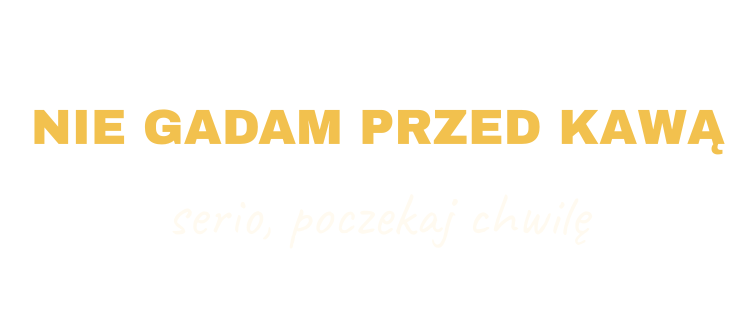
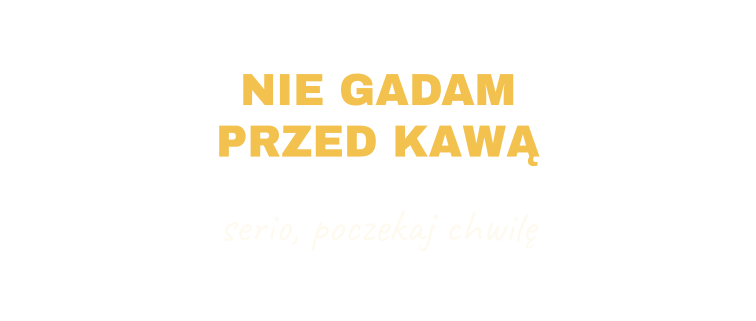
Витрина wzorów: карточка без 3D для кружки, ровная полоса, отказ на неизвестный режим

Changed region(s): [[0.0304, 0.2181, 0.9735, 0.5296]]

diff --git a/components/wzory/wzor-card.tsx b/components/wzory/wzor-card.tsx
@@ -3,7 +3,7 @@
 import dynamic from "next/dynamic";
 import { useRouter } from "next/navigation";
 import { useMemo, useState } from "react";
-import { DEFAULT_PRINT_AREA_MUG, DEFAULT_PRINT_AREAS_TSHIRT } from "@/components/souvenir3d/types";
+import { DEFAULT_PRINT_AREAS_TSHIRT } from "@/components/souvenir3d/types";
 import { startOwnDesign, useSessionColor } from "@/components/wzory/use-session-color";
 import { WzorMockup } from "@/components/wzory/wzor-mockup";
 import { productById } from "@/lib/catalog";
@@ -18,8 +18,6 @@ const Souvenir3dPreview = dynamic(
   { ssr: false, loading: () => null },
 );
 
-const mugAreas = [DEFAULT_PRINT_AREA_MUG];
-
 export function WzorCardView({ wzor, asIs, categoryName }: { wzor: WzorCard; asIs: boolean; categoryName: string | null }) {
   const router = useRouter();
   const color = useSessionColor();
@@ -31,7 +29,8 @@ export function WzorCardView({ wzor, asIs, categoryName }: { wzor: WzorCard; asI
   const [busy, setBusy] = useState<ChoiceMode | "own" | null>(null);
   const [error, setError] = useState<string | null>(null);
   const textures = useMemo(() => ({ ...wzor.previews }), [wzor.previews]);
-  const show3d = !modelFailed && Object.keys(textures).length > 0;
+  // Камера 3D-кружки смотрит на начало обёртки, а не на её середину, поэтому кружка остаётся плоским мокапом.
+  const show3d = shirt && !modelFailed && Object.keys(textures).length > 0;
 
   async function choose(mode: ChoiceMode) {
     setBusy(mode);
@@ -67,7 +66,7 @@ export function WzorCardView({ wzor, asIs, categoryName }: { wzor: WzorCard; asI
           {show3d ? (
             <div className={`absolute inset-0 transition-opacity duration-500 ${modelReady ? "opacity-100" : "opacity-0"}`}>
               <Souvenir3dPreview
-                printAreas={shirt ? DEFAULT_PRINT_AREAS_TSHIRT : mugAreas}
+                printAreas={DEFAULT_PRINT_AREAS_TSHIRT}
                 activePrintAreaId={view}
                 texturesByArea={textures}
                 bodyColor={color}
@@ -77,7 +76,7 @@ export function WzorCardView({ wzor, asIs, categoryName }: { wzor: WzorCard; asI
               />
             </div>
           ) : null}
-          {shirt ? (
+          {shirt && wzor.usedPrintAreaIds.length > 1 ? (
             <div className="absolute top-3 left-3 flex rounded-full bg-white/90 p-1 shadow-sm" role="group" aria-label="Strona">
               {(["front", "back"] as const).map((side) => (
                 <button
@@ -99,13 +98,7 @@ export function WzorCardView({ wzor, asIs, categoryName }: { wzor: WzorCard; asI
           ) : null}
         </div>
         {!shirt && wzor.previews.wrap ? (
-          <div className="mt-3 rounded-2xl border border-line bg-card p-3">
-            <p className="text-sm font-semibold">Cały nadruk dookoła kubka</p>
-            <div className="mt-2 aspect-[200/85] overflow-hidden rounded-lg" style={{ background: color }}>
-              {/* eslint-disable-next-line @next/next/no-img-element */}
-              <img src={wzor.previews.wrap} alt="" className="h-full w-full" />
-            </div>
-          </div>
+          <p className="mt-2 text-sm text-muted">Pod kubkiem cały nadruk dookoła: od ucha do ucha.</p>
         ) : null}
       </div>
 

diff --git a/scripts/wzory-fixtures.ts b/scripts/wzory-fixtures.ts
@@ -311,8 +311,8 @@ const designs: Design[] = [
     fonts: ["archivo", "caveat"],
     pages: {
       wrap: [
-        text("NIE GADAM PRZED KAWĄ", { x: 100, y: 34, size: 13, font: "archivo", fill: ink.mustard, width: 192 }),
-        text("serio, poczekaj chwilę", { x: 100, y: 57, size: 16, font: "caveat", fill: ink.cream, width: 190 }),
+        text("NIE GADAM PRZED KAWĄ", { x: 100, y: 31, size: 11.5, font: "archivo", fill: ink.mustard, width: 104 }),
+        text("serio, poczekaj chwilę", { x: 100, y: 60, size: 12, font: "caveat", fill: ink.cream, width: 120 }),
       ],
     },
   },
@@ -327,10 +327,10 @@ const designs: Design[] = [
     fonts: ["caveat"],
     pages: {
       wrap: [
-        icon("cat", { x: 42, y: 36, size: 44, fill: ink.mustard }),
-        text("miau", { x: 42, y: 70, size: 15, font: "caveat", fill: ink.cream, width: 60 }),
-        icon("cat", { x: 158, y: 36, size: 44, fill: ink.pink }),
-        text("mrrr", { x: 158, y: 70, size: 15, font: "caveat", fill: ink.cream, width: 60 }),
+        icon("cat", { x: 74, y: 36, size: 44, fill: ink.mustard }),
+        text("miau", { x: 74, y: 70, size: 15, font: "caveat", fill: ink.cream, width: 50 }),
+        icon("cat", { x: 126, y: 36, size: 44, fill: ink.pink }),
+        text("mrrr", { x: 126, y: 70, size: 15, font: "caveat", fill: ink.cream, width: 50 }),
       ],
     },
   },

diff --git a/components/wzory/wzor-mockup.tsx b/components/wzory/wzor-mockup.tsx
@@ -87,9 +87,12 @@ function MugMockup({ color, print }: { color: string; print?: string }) {
       />
       <path d="M60 40 H240 V236 C240 252 228 262 212 262 H88 C72 262 60 252 60 236 Z" fill={color} stroke={stroke} strokeWidth="2" />
       {print ? (
-        <svg x="60" y="65" width="180" height="170" viewBox="40 0 120 85" preserveAspectRatio="none" clipPath={`url(#${id}-mug)`}>
-          <image href={print} x="0" y="0" width="200" height="85" preserveAspectRatio="none" />
-        </svg>
+        <g clipPath={`url(#${id}-mug)`}>
+          {/* Спереди видна середина обёртки, напротив ручки: 100 из 200 мм. */}
+          <svg x="60" y="74" width="180" height="153" viewBox="50 0 100 85" preserveAspectRatio="none">
+            <image href={print} x="0" y="0" width="200" height="85" preserveAspectRatio="none" />
+          </svg>
+        </g>
       ) : null}
       <rect x="60" y="40" width="180" height="222" fill={`url(#${id}-cyl)`} clipPath={`url(#${id}-mug)`} />
       <ellipse cx="150" cy="40" rx="90" ry="10" fill={color} stroke={stroke} strokeWidth="2" />

diff --git a/app/api/wzory/[id]/wybierz/route.ts b/app/api/wzory/[id]/wybierz/route.ts
@@ -10,10 +10,11 @@ export const runtime = "nodejs";
 /** Копирует шаблон в проект сессии: «Zamów bez zmian» → лавка, «Zmień w edytorze» → редактор. */
 export async function POST(request: Request, context: { params: Promise<{ id: string }> }) {
   const id = Number((await context.params).id);
-  let mode: ChoiceMode = "as-is";
+  let mode: ChoiceMode;
   try {
     const body = (await request.json()) as { mode?: unknown };
-    if (body.mode === "edit") mode = "edit";
+    if (body.mode !== "edit" && body.mode !== "as-is") throw new Error("mode");
+    mode = body.mode;
   } catch {
     return Response.json({ error: "Nie odczytano wyboru" }, { status: 400 });
   }

diff --git a/components/wzory/wzory-strip.tsx b/components/wzory/wzory-strip.tsx
@@ -52,7 +52,7 @@ export function WzoryStrip({ product, color }: { product: ProductId; color: stri
           Zobacz wszystkie
         </Link>
       </div>
-      <div className="-mx-5 mt-4 flex snap-x snap-mandatory gap-3 overflow-x-auto px-5 pb-2 md:-mx-7 md:px-7">
+      <div className="-mx-5 mt-4 flex snap-x snap-mandatory scroll-px-5 gap-3 overflow-x-auto px-5 pb-2 md:-mx-7 md:scroll-px-7 md:px-7">
         {loading
           ? Array.from({ length: 4 }, (_, index) => (
               <div key={index} className="w-[44%] shrink-0 sm:w-[210px]">

diff --git a/lib/wzory/service.ts b/lib/wzory/service.ts
@@ -25,7 +25,8 @@ function cached<T>(source: WzorySource, key: string, ms: number, load: () => Pro
   return value;
 }
 
-const logged = new Set<string>();
+// Маршруты Next держат свои копии модуля, поэтому общий набор лежит в globalThis.
+const logged: Set<string> = ((globalThis as { __wzoryLogged?: Set<string> }).__wzoryLogged ??= new Set());
 
 function logRejected(id: number, result: Extract<WzorResult, { ok: false }>) {
   const key = `${id}:${result.reason}:${result.detail}`;

diff --git a/app/wzory/[kod]/page.tsx b/app/wzory/[kod]/page.tsx
@@ -17,7 +17,11 @@ function cleanCode(value: string) {
 
 export async function generateMetadata({ params }: Props): Promise<Metadata> {
   const code = cleanCode((await params).kod);
-  return { title: `${code ? wzorTitle(code) : "Wzór"} — ${seller.brand}` };
+  const result = code ? await findWzorByCode(code) : null;
+  return {
+    title: `${code ? wzorTitle(code) : "Wzór"} — ${seller.brand}`,
+    robots: result?.ok ? undefined : { index: false },
+  };
 }
 
 export default async function WzorPage({ params }: Props) {

diff --git a/README.md b/README.md
@@ -13,4 +13,20 @@ npm run dev -- --hostname 0.0.0.0 --port 43131
 
 Интерфейс по-польски, цены-заглушки в zł. Путь: две двери → лавка выбранной вещи → редактор → корзина. Цвет с лавки красит ткань 3D, принт лежит поверх. В редакторе холст Fabric и 3D футболки и кружки. На листе кнопки действий нарисованы своими иконками в коде страницы, без шрифта иконок и без запроса к чужому серверу. Перед корзиной лист говорит, если фото реже 300 dpi, объект вылез за край или текст меньше 5 мм. Белый цвет надписи остаётся на модели. PNG зоны на 300 dpi пишется в `data/prints` на сервере drukarycz.pl, когда человек идёт из редактора в корзину. Редактор открывается целиком, когда лист и модель уже собраны. До этого на экране только «Otwieramy edytor…». Файл футболки сжат с 6,5 МБ до 300 КБ, а модели и код редактора начинают грузиться уже на дверях. Подпись по-польски всплывает при наведении. Названия сторон — Przód, Tył, Obwód — остаются словами. Двери, лавка, холст и корзина лежат на сервере drukarycz.pl: обновление страницы их не стирает. Войти можно по польскому телефону и тестовому коду, он виден в окне входа. Заказ и цена в CRM не уходят. Отделка на лавке — только вид, без ширины рулона.
 
+## Gotowe wzory
+
+Витрина готовых дизайнов на тестовых данных: полоса «Gotowe wzory» в лавке под «Zrób własny», страница `/wzory` с рубриками и карточка `/wzory/000123`. На карточке два пути. «Zamów bez zmian» возвращает в лавку с выбранным wzorem и ведёт в корзину. «Zmień w edytorze» открывает тот же шаблон в редакторе. В корзине у позиции есть `designTemplateId`, `designTemplateCode`, `designUsageFee`, `designModified` и `usedPrintAreaIds`. Цена wzoru в zł, один раз на позицию, при нуле подпись «Wzór w cenie».
+
+Источник выбирает `DESIGNS_SOURCE`. По умолчанию `fixtures`: ответы в форме CRM лежат в `fixtures/wzory`. Значение `crm` пока пустая заглушка с той же схемой, CRM не подключена. Ручки сайта: `GET /api/wzory?produkt=koszulka|kubek`, `GET /api/wzory/kategorie`, `GET /api/wzory/{id}`, `POST /api/wzory/{id}/wybierz`, `POST /api/wzory/wlasny`. Шаблон проверяется до показа: зоны в мм с допуском 1 мм, единицы холста, адреса картинок и шрифтов только со своего сервера. Плохой шаблон в витрину не попадает, а по прямой ссылке показывает «Ten wzór nie pasuje do tego produktu.». Цену и номер wzoru в проект пишет только сервер.
+
+```bash
+npm run wzory:fixtures   # пересобрать fixtures/wzory и превью
+npm run wzory:previews   # только превью public/wzory/preview/*.png
+npm test
+```
+
+Шрифты Archivo Black и Caveat лежат в `public/fonts/wzory` под OFL.
+
+## Право
+
 Страницы regulamin, prywatność, cookies, odstąpienie, reklamacje, dostawa и kontakt лежат в `/prawne`. Корзина просит e-mail, адрес и две отдельные галочки, оплату не берёт. Реквизиты фирмы в `lib/seller.ts` пустые, пока организация их не впишет. Что осталось до продажи — в `docs/plan-prawny.md`.
